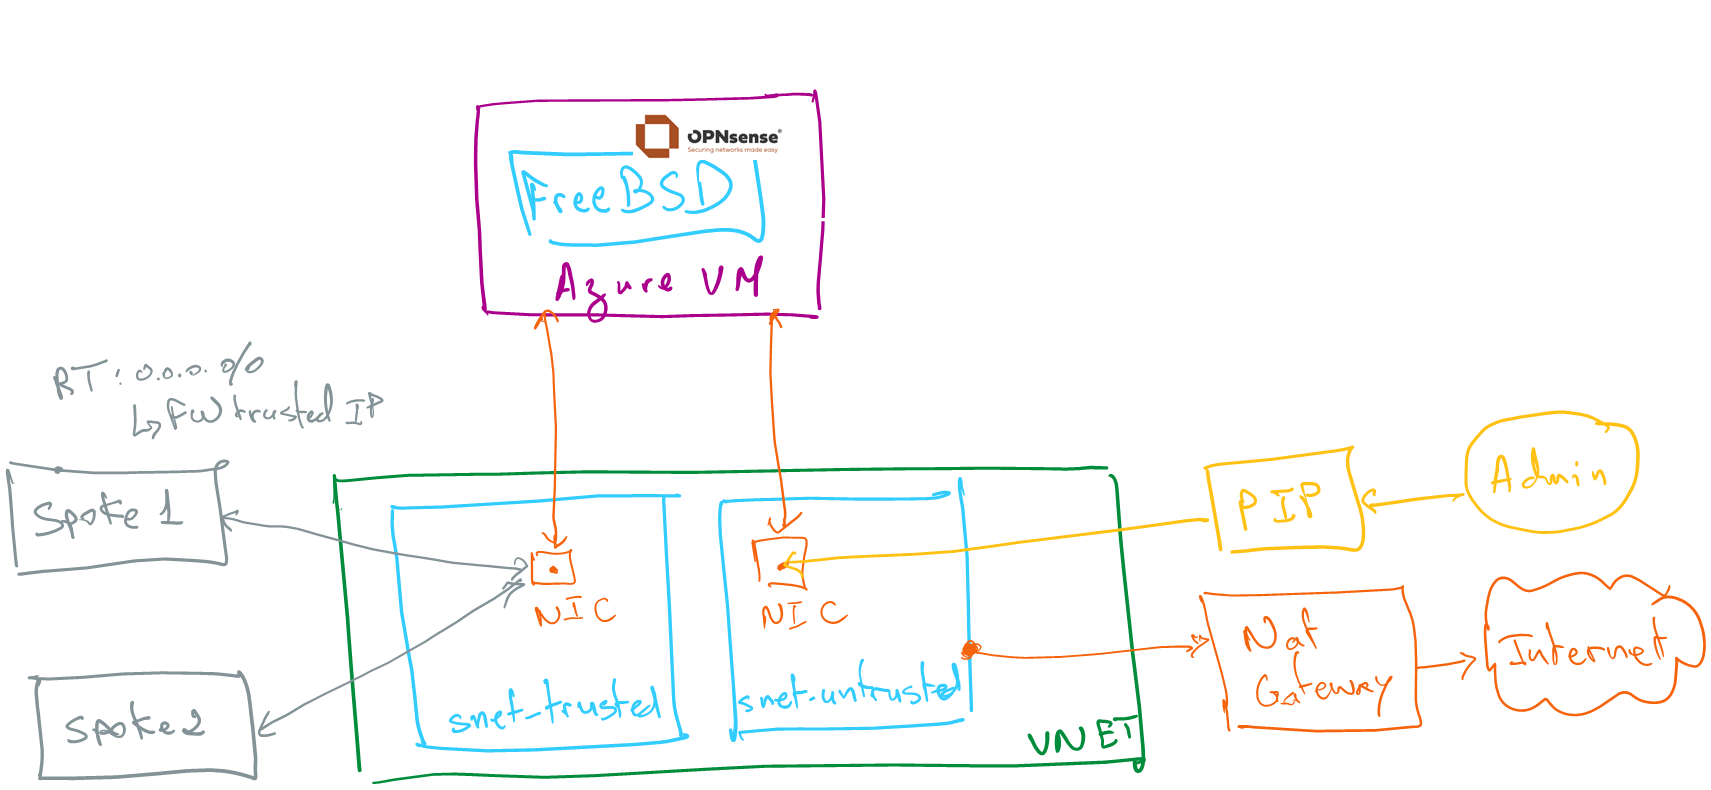
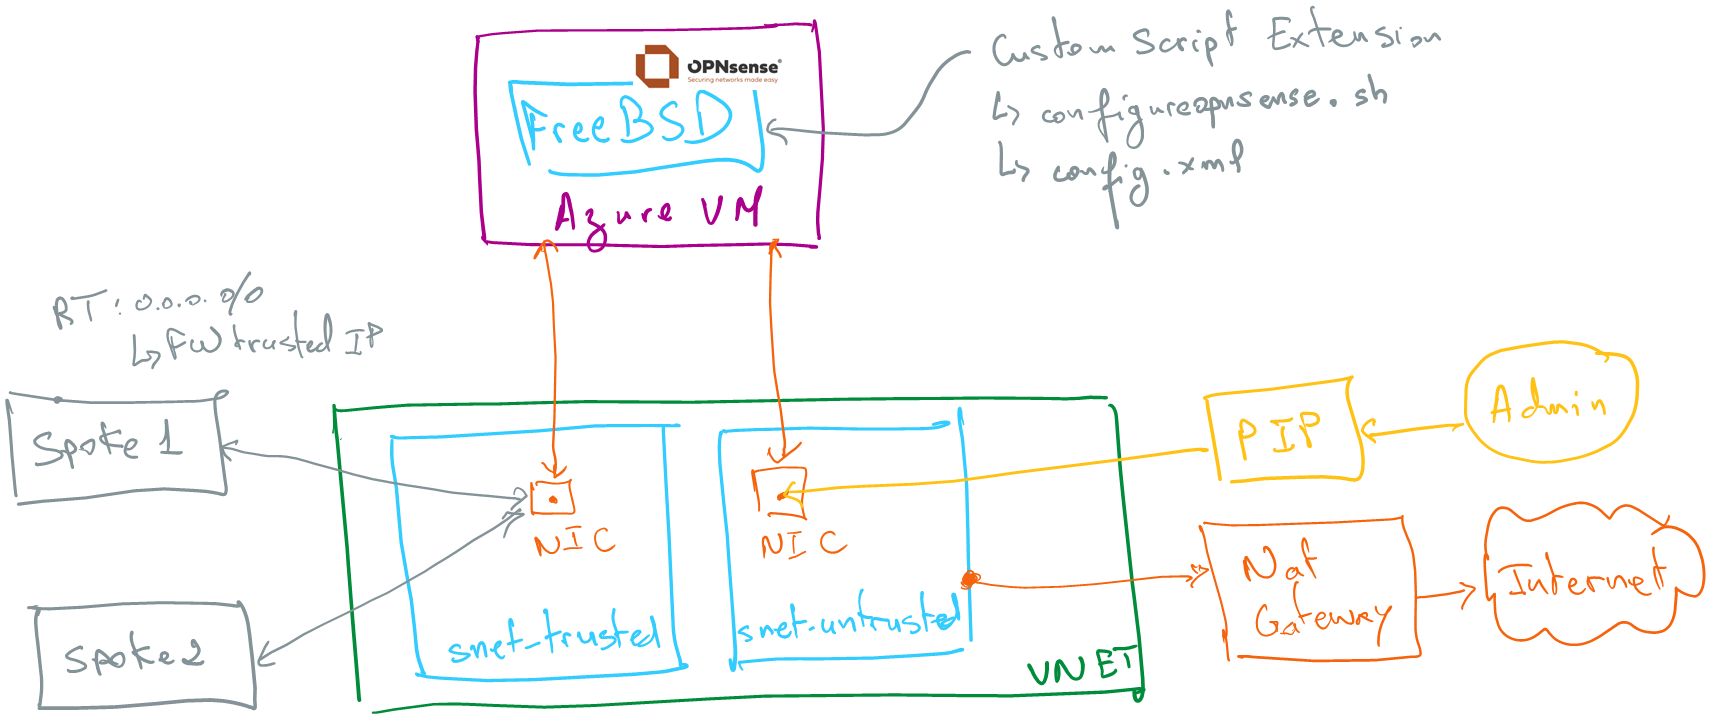
work in progress

diff --git a/205_nva_opnsense/Readme copy.md b/205_nva_opnsense/Readme copy.md
@@ -10,7 +10,7 @@ This blog is available as a video on YouTube: [youtube.com/watch?v=JtnIFiB7jkE](
 
 ## Introduction to OPNsense
 
-In today’s cloud-driven world, securing your infrastructure is more critical than ever. One powerful solution is `OPNsense`. OPNsense is a powerful [open-source](https://github.com/opnsense/core) firewall that can be used to secure your virtual networks. Originally forked from `pfSense`, which itself evolved from [m0n0wall](https://m0n0.ch/). OPNsense could run on `Windows`, `MacOS`, `Linux` including `OpenBSD` and `FreeBSD`. It provides a user-friendly web interface for configuration and management.
+In today’s cloud-driven world, securing your infrastructure is more critical than ever. One powerful solution is OPNsense. OPNsense is a powerful [open-source](https://github.com/opnsense/core) firewall that can be used to secure your virtual networks. Originally forked from pfSense, which itself evolved from [m0n0wall](https://m0n0.ch/). OPNsense could run on Windows, MacOS, Linux including OpenBSD and FreeBSD. It provides a user-friendly web interface for configuration and management.
 What makes OPNsense Firewall stand out is its rich feature set:
 
 * **VPN Support** for point-to-site and site-to-site connections using technologies like WireGuard and OpenVPN.
@@ -30,70 +30,68 @@ In this guide, you’ll learn how to install and configure OPNsense Firewall on 
 There are three ways to have OPNsense in a virtual machine.
 
 * Create a VM from scratch and install OPNsense.
-* Install using the [pre-packaged ISO image](https://opnsense.org/get-started/) created by `Deciso` the company that maintains OPNsense.
+* Install using the [pre-packaged ISO image](https://opnsense.org/get-started/) created by Deciso the company that maintains OPNsense.
 * Use a pre-built VM image from the [Azure Marketplace](https://azuremarketplace.microsoft.com/en-en/marketplace/apps/decisosalesbv.opnsense?tab=Overview).
 
-In this demo, we will use the first approach to have more control over the installation and configuration. We will create an Azure VM with `FreeBSD OS` and then install OPNsense using a shell script through the `Custom Script Extension`.
+In this demo, we will use the first approach to have more control over the installation and configuration. We will create an Azure VM with FreeBSD OS and then install OPNsense using a shell script through the Custom Script Extension.
 
 All the required files are in this repository: https://github.com/HoussemDellai/azure-network-course/tree/main/205_nva_opnsense.
 
-The shell script `configureopnsense.sh` will install OPNsense and apply a predefined configuration file `config.xml` to set up the firewall rules, VPN, and DNS settings. It will take 4 parameters:
+The shell script configureopnsense.sh will install OPNsense and apply a predefined configuration file config.xml to set up the firewall rules, VPN, and DNS settings. It will take 4 parameters:
 
-*   GitHub path where the script and config file are hosted, in our case it is `https://raw.githubusercontent.com/HoussemDellai/azure-network-course/refs/heads/main/205_nva_opnsense/scripts/`.
-*   OPNsense version to install, currently set to `25.7`.
+*   GitHub path where the script and config file are hosted, in our case it is https://raw.githubusercontent.com/HoussemDellai/azure-network-course/refs/heads/main/205_nva_opnsense/scripts/.
+*   OPNsense version to install, currently set to 25.7.
 *   Gateway IP address for the trusted subnet.
 *   Public IP address of the untrusted subnet.
 
-This shell script is executed after the VM creation using the `Custom Script Extension` in Terraform represented in the file `vm_extension_install_opnsense.tf`.
+This shell script is executed after the VM creation using the Custom Script Extension in Terraform represented in the file vm_extension_install_opnsense.tf.
 
-OPNsense is intended to be used an `NVA` so it would be good to apply some of the good practices. One of these practices is to have two network interfaces:
+OPNsense is intended to be used an NVA so it would be good to apply some of the good practices. One of these practices is to have two network interfaces:
 
 *   **Trusted Interface**: Connected to the internal network (spokes).
 *   **Untrusted Interface**: Connected to the internet (WAN).
 
 This setup allows OPNsense to effectively manage and secure traffic between the internal network and the internet.
 
-Second good practice is to start with a predefined configuration file (`config.xml`) that includes the basic settings for the firewall, VPN, and DNS. This approach saves time and ensures consistency across deployments. It is recommended to start with closed firewall rules and then open them as needed based on your security requirements. But for demo purposes, we will allow all traffic.
+Second good practice is to start with a predefined configuration file (config.xml) that includes the basic settings for the firewall, VPN, and DNS. This approach saves time and ensures consistency across deployments. It is recommended to start with closed firewall rules and then open them as needed based on your security requirements. But for demo purposes, we will allow all traffic.
 
 Third good practice is to use multiple instances of OPNsense in a high-availability setup to ensure redundancy and failover capabilities. However, for simplicity, we will use a single instance in this demo.
 
 Let's take a look at the resources that will be created by Terraform using the **AzureRM provider**:
 
 *   **Resource Group**
-*   **Virtual Network (VNET)** named `vnet-hub` with two subnets:
+*   **Virtual Network (VNET)** named vnet-hub with two subnets:
     *   **Trusted Subnet**: Internal traffic between spokes.
     *   **Untrusted Subnet**: Exposes the firewall to the internet.
 *   **Network Security Group (NSG)**: attached to the untrusted subnet, with rules allowing traffic to the VPN, OPNsense website and to the internet.
 *   **Virtual Machine**:
-    *   **FreeBSD OS** image using version `14.1`.
-    *   VM size: `Standard_D4ads_v6` with NVMe disk for better performance.
+    *   **FreeBSD OS** image using version 14.1.
+    *   VM size: Standard_D4ads_v6 with NVMe disk for better performance.
     *   Admin credentials: feel free to change the username and password with more security.
 *   **Two NICs** (trusted and untrusted) with **IP forwarding enabled** to allow traffic to pass through the firewall.
 *   **NAT Gateway**: attached to the untrusted subnet for outbound internet connectivity.
 
 ### **Apply Terraform configuration**
 
-To deploy the resources, run the following commands in your terminal from within the `205_nva_opnsense` directory:
+To deploy the resources, run the following commands in your terminal from within the 205_nva_opnsense directory:
 
-```bash
+bash
 terraform init
 terraform apply -auto-approve
-```
+
 
 Terraform provisions the infrastructure and outputs resource details.
 In the Azure portal you should see the newly created resources.
 
 ![Azure resources](images/resources.png)
 
-### **Accessing the OPNsense dashboard**
-
-To access the OPNsense dashboard:
+### **Access the OPNsense dashboard**
 
 1.  Get the VM’s public IP from the Azure portal or from Terraform output.
 2.  Paste it into your browser. Accept the TLS warning (TLS is not configured yet).
 3.  Log in:
-    *   **Username**: `root`
-    *   **Password**: `opnsense` you can change it later in the dashboard.
+    *   **Username**: root
+    *   **Password**: opnsense you can change it later in the dashboard.
 
 You now have access to the OPNsense dashboard where you can:
 
@@ -108,31 +106,31 @@ Now that the OPNsense firewall is up and running, let's move to the next steps t
 
 ## 2. Setting up Point-to-Site VPN using WireGuard
 
-We’ll demonstrate how to establish a **WireGuard VPN connection** to OPNsense firewall. The configuration file `config.xml` used during installation already includes the necessary settings for WireGuard VPN. For more details on how to set up WireGuard on OPNsense, refer to the [official documentation](https://docs.opnsense.org/manual/how-tos/wireguard.html).
+We’ll demonstrate how to establish a **WireGuard VPN connection** to OPNsense firewall. The configuration file config.xml used during installation already includes the necessary settings for WireGuard VPN. For more details on how to set up WireGuard on OPNsense, refer to the [official documentation](https://docs.opnsense.org/manual/how-tos/wireguard.html).
 
-We will generate a `Wireguard` peer configuration using the OPNsense dashboard. Navigate to `VPN > WireGuard > Peer generator` then add a name for the peer, fill in the IP address for the OPNsense which is the public IP of the VM in Azure, use the same IP if you want to use the pre-configured UnboundDNS. Then copy the generated configuration and click on `Store and generate next` and `Apply`.
+We will generate a Wireguard peer configuration using the OPNsense dashboard. Navigate to VPN > WireGuard > Peer generator then add a name for the peer, fill in the IP address for the OPNsense which is the public IP of the VM in Azure, use the same IP if you want to use the pre-configured UnboundDNS. Then copy the generated configuration and click on Store and generate next and Apply.
 
 ![Wireguard peer generator](images/generate-vpn-peer.png)
 
-Next we'll use that configuration to set up WireGuard on a Windows client. Here you can either use your current machine as a client or create a new Windows VM in Azure. We'll go with this second option for better isolation. We'll deploy the client VM using Terraform file `vpn_client_vm_win11.tf`. Make sur it is deployed using command `terraform apply -auto-approve`.
+Next we'll use that configuration to set up WireGuard on a Windows client. Here you can either use your current machine as a client or create a new Windows VM in Azure. We'll go with this second option for better isolation. We'll deploy the client VM using Terraform file vpn_client_vm_win11.tf. Make sur it is deployed using command terraform apply -auto-approve.
 
-Once the VM is ready, connect to it using RDP, download and install WireGuard from [here](https://www.wireguard.com/install/). Alternatively, you can install WireGuard using the following `Winget` command:
+Once the VM is ready, connect to it using RDP, download and install WireGuard from [here](https://www.wireguard.com/install/). Alternatively, you can install WireGuard using the following Winget command:
 
-```sh
+sh
 winget install -e --id WireGuard.WireGuard --accept-package-agreements --accept-source-agreements
-```
 
-Launch WireGuard application, click on `Add Tunnel > Add empty tunnel...`, then paste the peer configuration generated from OPNsense and save it.
+
+Launch WireGuard application, click on Add Tunnel > Add empty tunnel..., then paste the peer configuration generated from OPNsense and save it.
 
 ![Wireguard client configuration](images/vpnclient-config.png)
 
-Then click on `Activate` to start the VPN connection. We should see the data transfer starting.
+Then click on Activate to start the VPN connection. We should see the data transfer starting.
 
 ![Wireguard client activated](images/vpnclient-activate.png)
 
 We'll verify the VPN connection by pinging the VM, checking the outbound traffic passes through the Nat Gateway's IPs and also checking the DNS resolution using UnboundDNS configured in OPNsense.
 
-```sh
+sh
 ping 10.0.1.4 # this is the trusted IP of OPNsense in Azure
 # Pinging 10.0.1.4 with 32 bytes of data:
 # Reply from 10.0.1.4: bytes=32 time=48ms TTL=64
@@ -150,9 +148,7 @@ nslookup microsoft.com # should resolve using UnboundDNS configured in OPNsense
 #           13.107.246.53
 #           13.107.213.53
 # ...
-```
 
->The service endpoint `ifconfig.me` is used to get the public IP address of the client. You can use any other similar service.
 
 ## What's next ?
 
